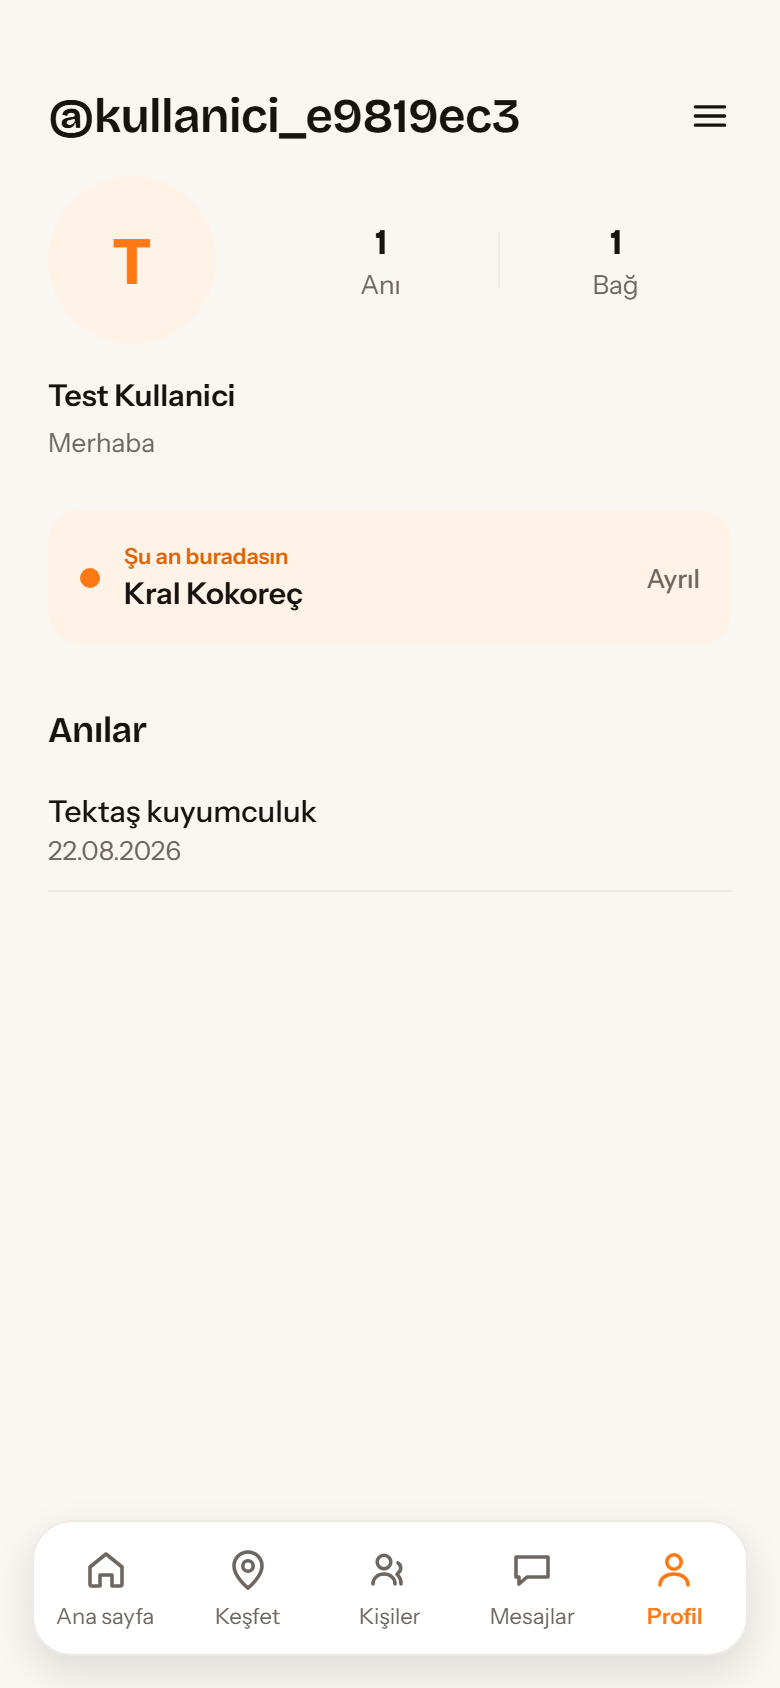
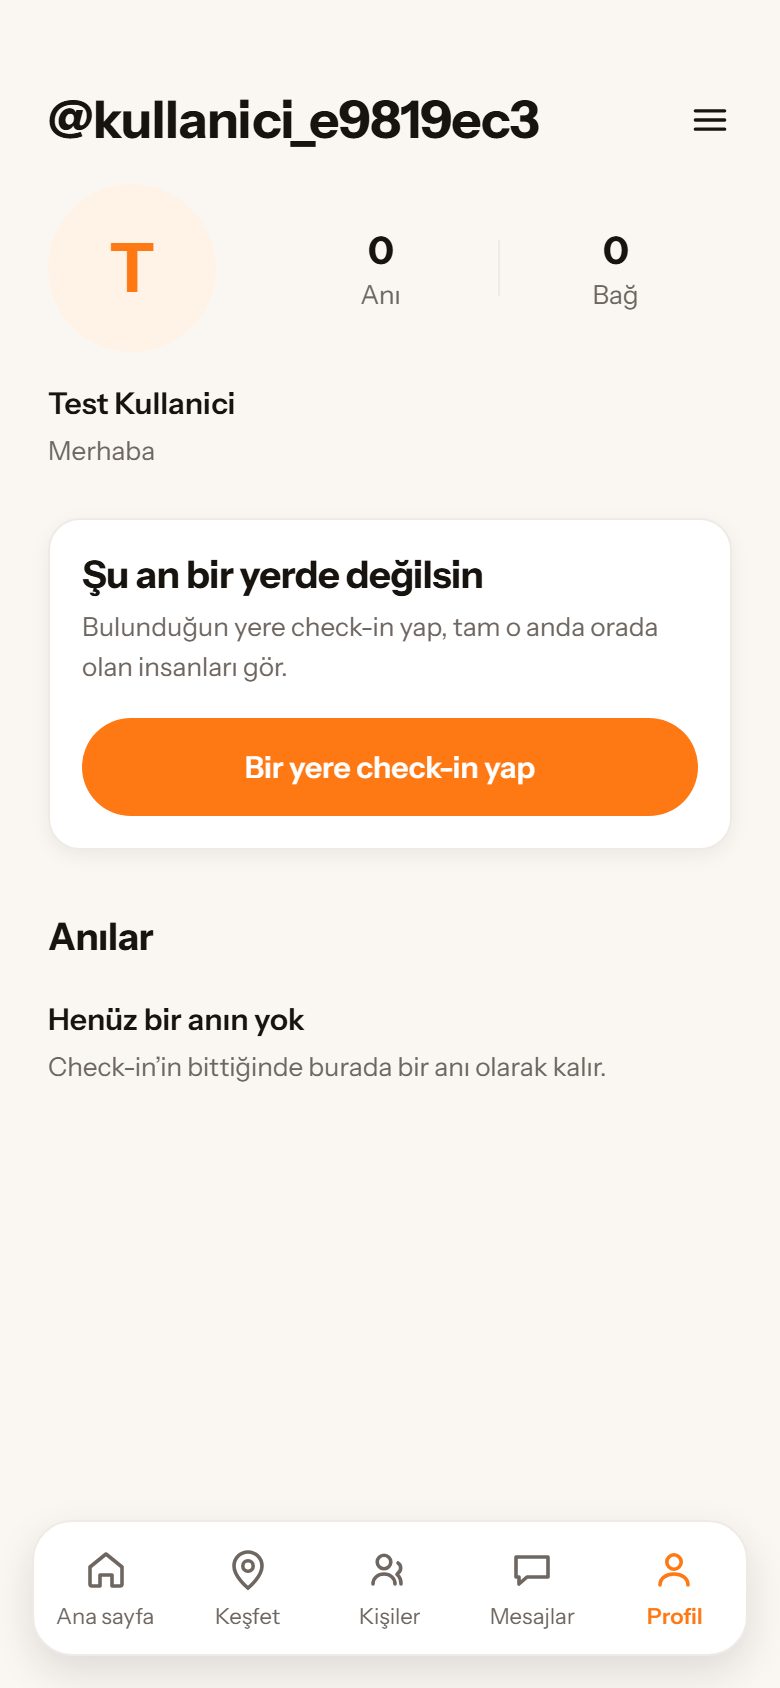
feat(tasarim): uygulamanin icinde TEK yazi ailesi
Kullanicinin karari (2026-08-25), kendi ayarlar ekranimizin telefondaki
goruntusunu gostererek: "Basliklar dahil butun yazim stilleri
resimdeki gibi olucak."

Marka fontu Bricolage Grotesque uygulamadan tamamen cikti. Basliklar,
govde, bas harfli avatarlar ve sayilar artik ayni aileden (Instrument
Sans); baslik olmak yazi tipini degil agirligi ve puntoyu degistiriyor.
yazi.baslik ve yazi.baslikKalin jetonlari silindi - birakilsalardi yeni
bir ekranda yeniden kullanilirlardi. Bricolage artik _layout'ta da
yuklenmiyor.

Markanin karakteri kelime markasi GORSELINDE yasiyor; karsilama ve
giris ekranlarindaki buyuk vaat de artik govde ailesiyle yaziliyor.

Tasarim becerisi (.claude/skills/slooin-tasarim) yeni kurala gore
guncellendi; onceki "baslik fontu Bricolage" kurali gecersiz.

49 paket / 416 test yesil, tsc bes onceden var olan hatada.

diff --git a/mobil/src/tasarim/tema.ts b/mobil/src/tasarim/tema.ts
@@ -48,20 +48,18 @@ export const renk = {
 } as const
 
 export const yazi = {
-  /** Baslik ailesi. Karakterli; olculu kullanilir. */
-  baslik: 'BricolageGrotesque_600SemiBold',
-  baslikKalin: 'BricolageGrotesque_700Bold',
   /**
-   * EKRAN BASLIKLARI (kullanicinin karari, 2026-08-25).
+   * EKRAN BASLIKLARI - ve baslik gibi davranan her sey (bas harfli
+   * avatarlar, sayilar).
    *
-   * Sayfa ve bolum basliklari marka fontu Bricolage ile degil, govde
-   * ailesinin en agir kesimiyle yaziliyor: kullanici Instagram'in
-   * ayarlar ekranini ornek gosterip "yazi stili bu ornekteki gibi
-   * olsun, basliklar daha kalin ve daha buyuk puntolu" dedi.
+   * Kullanicinin karari (2026-08-25): "Basliklar dahil butun yazim
+   * stilleri resimdeki gibi olucak." Referans, Instagram duzenine
+   * gecirilmis kendi ayarlar ekranimizdi.
    *
-   * Bricolage KALDIRILMADI: kelime markasinda ve karsilama/giris
-   * ekranlarinin buyuk vaadinde duruyor - yani markanin konustugu
-   * yerlerde. Uygulamanin ici ise notr ve okunakli.
+   * Uygulamanin ICINDE TEK YAZI AILESI var: Instrument Sans. Marka
+   * fontu Bricolage Grotesque buradan tamamen cikti (once yalnizca
+   * basliklardan cikmisti, sonra tamamen). Kelime markasi bir gorsel
+   * oldugu icin markanin karakteri orada duruyor.
    */
   ekranBasligi: 'InstrumentSans_700Bold',
 

diff --git a/mobil/src/app/mekanlar/index.tsx b/mobil/src/app/mekanlar/index.tsx
@@ -355,7 +355,7 @@ const stiller = StyleSheet.create({
     paddingHorizontal: bosluk.xl,
   },
   marka: {
-    fontFamily: yazi.baslikKalin,
+    fontFamily: yazi.ekranBasligi,
     fontSize: 22,
     color: renk.metin,
     letterSpacing: -0.6,
@@ -375,7 +375,7 @@ const stiller = StyleSheet.create({
   yaricapYaziSecili: { color: renk.turuncuKoyu },
 
   baslik: {
-    fontFamily: yazi.baslikKalin,
+    fontFamily: yazi.ekranBasligi,
     fontSize: 30,
     lineHeight: 34,
     color: renk.metin,
@@ -464,7 +464,7 @@ const stiller = StyleSheet.create({
   canliRozetYazi: { fontFamily: yazi.govdeKalin, fontSize: olcek.minik, color: '#FFFFFF' },
   kartAlt: { position: 'absolute', left: 18, right: 18, bottom: 18, gap: 2 },
   kartAd: {
-    fontFamily: yazi.baslikKalin,
+    fontFamily: yazi.ekranBasligi,
     fontSize: 20,
     color: renk.metin,
     letterSpacing: -0.3,
@@ -472,7 +472,7 @@ const stiller = StyleSheet.create({
   kartAltYazi: { fontFamily: yazi.govdeOrta, fontSize: olcek.kucuk, color: renk.metinIkincil },
 
   bolumBasligi: {
-    fontFamily: yazi.baslikKalin,
+    fontFamily: yazi.ekranBasligi,
     fontSize: olcek.altBaslik,
     color: renk.metin,
     letterSpacing: -0.3,

diff --git a/mobil/src/app/_layout.tsx b/mobil/src/app/_layout.tsx
@@ -1,11 +1,7 @@
 import { useEffect, useState } from 'react'
 import { View, StyleSheet } from 'react-native'
 import { Slot, useRouter, useSegments } from 'expo-router'
-import {
-  useFonts,
-  BricolageGrotesque_600SemiBold,
-  BricolageGrotesque_700Bold,
-} from '@expo-google-fonts/bricolage-grotesque'
+import { useFonts } from 'expo-font'
 import {
   InstrumentSans_400Regular,
   InstrumentSans_500Medium,
@@ -112,12 +108,10 @@ const stiller = StyleSheet.create({
 })
 
 export default function KokLayout() {
-  // Marka yazi tipleri (karar 73). Yuklenmeden once ekran cizilmez:
+  // Uygulamanin yazi ailesi. Yuklenmeden once ekran cizilmez:
   // sistem fontuyla bir kare cizip sonra marka fontuna atlamak gozle
   // gorulur bir sicrama uretiyor.
   const [yaziHazir] = useFonts({
-    BricolageGrotesque_600SemiBold,
-    BricolageGrotesque_700Bold,
     InstrumentSans_400Regular,
     InstrumentSans_500Medium,
     InstrumentSans_600SemiBold,

diff --git a/mobil/src/app/profil/index.tsx b/mobil/src/app/profil/index.tsx
@@ -318,7 +318,7 @@ const stiller = StyleSheet.create({
     justifyContent: 'center',
   },
   basHarf: {
-    fontFamily: yazi.baslikKalin,
+    fontFamily: yazi.ekranBasligi,
     fontSize: 34,
     color: renk.turuncu,
   },
@@ -327,7 +327,7 @@ const stiller = StyleSheet.create({
   sayiHucre: { flex: 1, alignItems: 'center', paddingVertical: bosluk.s },
   sayiAyirici: { width: 1, height: 28, backgroundColor: renk.cizgi },
   sayi: {
-    fontFamily: yazi.baslikKalin,
+    fontFamily: yazi.ekranBasligi,
     fontSize: olcek.altBaslik,
     color: renk.metin,
     letterSpacing: -0.4,

diff --git a/mobil/src/tasarim/UstCubuk.tsx b/mobil/src/tasarim/UstCubuk.tsx
@@ -12,8 +12,8 @@ import { renk, yazi, olcek, bosluk } from './tema'
  * Bu bilesen o boslugu dolduruyor.
  *
  * Baslik ORTALI degil sola yasli: Instagram ayarlarinda ortali duruyor
- * ama bizim basliklarimiz Bricolage ile daha uzun ve iki yana esit
- * bosluk birakmak "Engellenenler" gibi uzun bir baslikta oku sikistiriyor.
+ * ama "Engellenenler" gibi uzun bir baslikta iki yana esit bosluk
+ * birakmak geri okunu sikistiriyor.
  */
 export function UstCubuk({ baslik, geriEtiketi }: { baslik: string; geriEtiketi: string }) {
   const router = useRouter()

diff --git a/mobil/src/app/kullanici/[id].tsx b/mobil/src/app/kullanici/[id].tsx
@@ -466,7 +466,7 @@ const stiller = StyleSheet.create({
     alignItems: 'center',
     justifyContent: 'center',
   },
-  basHarf: { fontFamily: yazi.baslikKalin, fontSize: 34, color: renk.turuncu },
+  basHarf: { fontFamily: yazi.ekranBasligi, fontSize: 34, color: renk.turuncu },
   kimlikOrta: { flex: 1 },
   ad: {
     fontFamily: yazi.ekranBasligi,

diff --git a/mobil/src/app/(auth)/kayit.tsx b/mobil/src/app/(auth)/kayit.tsx
@@ -205,7 +205,7 @@ const stiller = StyleSheet.create({
   icerik: { padding: bosluk.xl, paddingTop: 64, paddingBottom: bosluk.xxl },
 
   marka: {
-    fontFamily: yazi.baslikKalin,
+    fontFamily: yazi.ekranBasligi,
     fontSize: 22,
     color: renk.metin,
     letterSpacing: -0.5,

diff --git a/mobil/src/app/profil/engellenenler.tsx b/mobil/src/app/profil/engellenenler.tsx
@@ -175,7 +175,7 @@ const stiller = StyleSheet.create({
     justifyContent: 'center',
   },
   basHarf: {
-    fontFamily: yazi.baslikKalin,
+    fontFamily: yazi.ekranBasligi,
     fontSize: olcek.altBaslik,
     color: renk.metinIkincil,
   },

diff --git a/mobil/src/app/kisiler.tsx b/mobil/src/app/kisiler.tsx
@@ -183,7 +183,7 @@ const stiller = StyleSheet.create({
     justifyContent: 'center',
   },
   basHarf: {
-    fontFamily: yazi.baslikKalin,
+    fontFamily: yazi.ekranBasligi,
     fontSize: olcek.altBaslik,
     color: renk.turuncu,
   },

diff --git a/mobil/src/app/index.tsx b/mobil/src/app/index.tsx
@@ -237,7 +237,7 @@ const stiller = StyleSheet.create({
     justifyContent: 'center',
   },
   basHarf: {
-    fontFamily: yazi.baslikKalin,
+    fontFamily: yazi.ekranBasligi,
     fontSize: olcek.govde,
     color: renk.turuncu,
   },

diff --git a/mobil/src/app/mekanlar/[id].tsx b/mobil/src/app/mekanlar/[id].tsx
@@ -242,7 +242,7 @@ const stiller = StyleSheet.create({
     justifyContent: 'center',
   },
   basHarf: {
-    fontFamily: yazi.baslikKalin,
+    fontFamily: yazi.ekranBasligi,
     fontSize: olcek.govde,
     color: renk.turuncu,
   },

diff --git a/mobil/src/app/(auth)/karsilama.tsx b/mobil/src/app/(auth)/karsilama.tsx
@@ -89,7 +89,7 @@ const stiller = StyleSheet.create({
 
   ust: { alignItems: 'center' },
   baslik: {
-    fontFamily: yazi.baslik,
+    fontFamily: yazi.ekranBasligi,
     fontSize: 30,
     lineHeight: 37,
     color: renk.metin,
